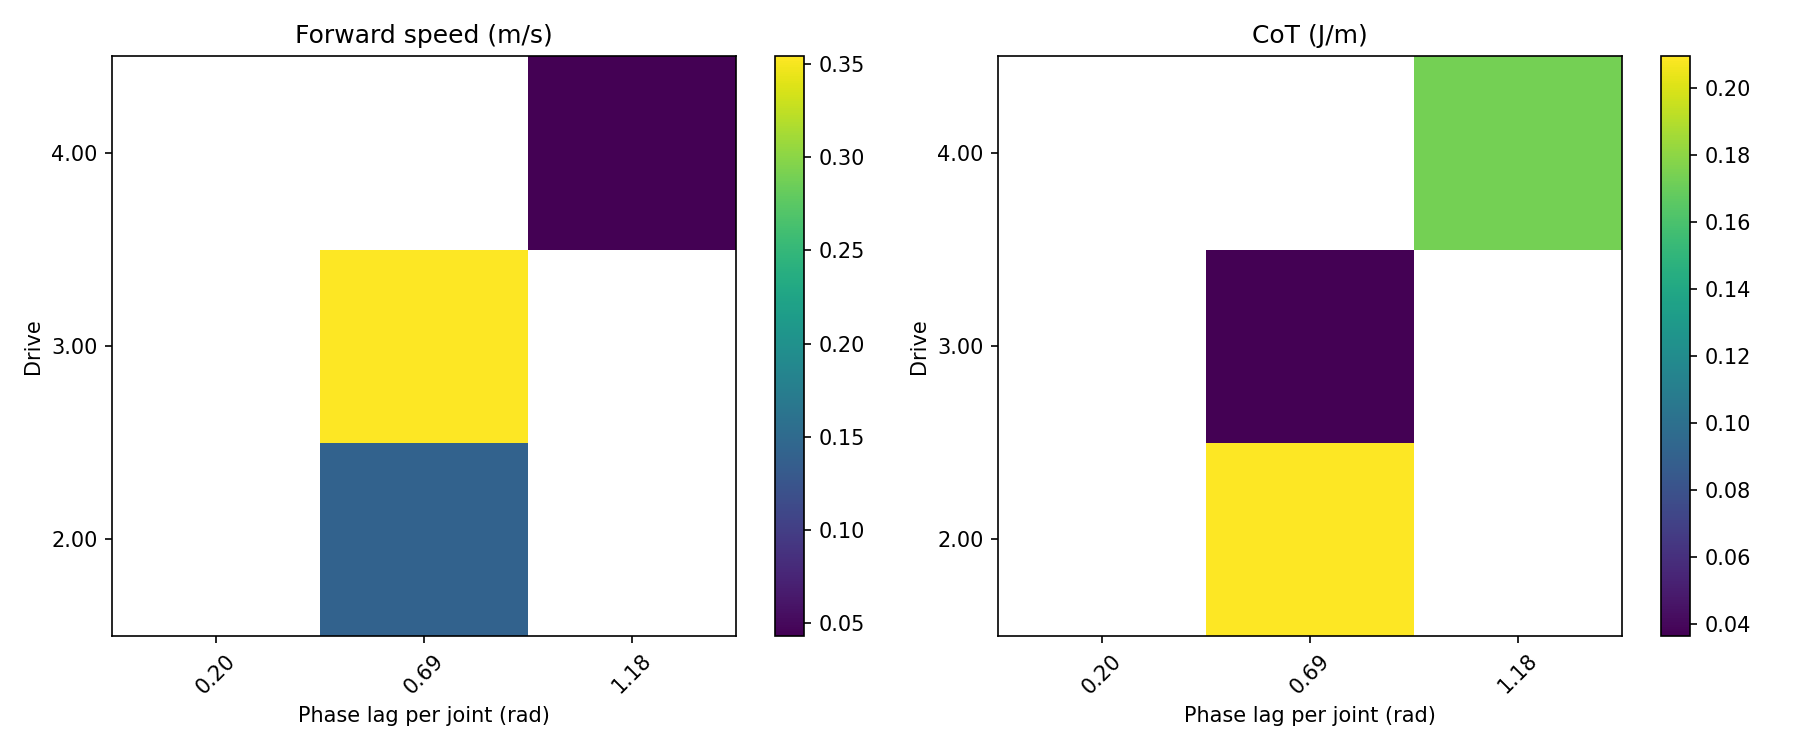
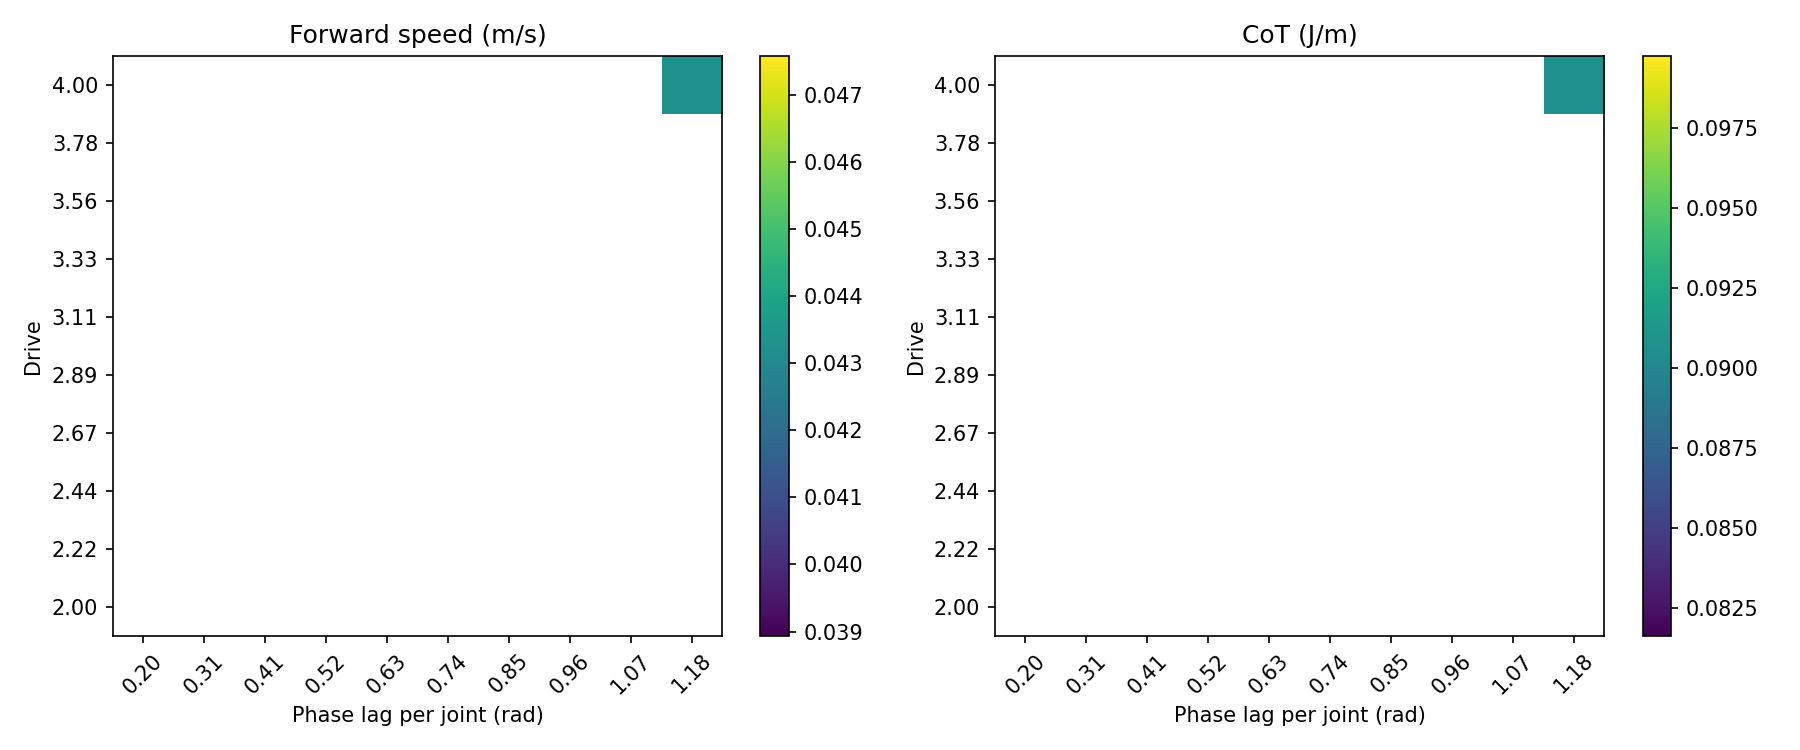
modifs

diff --git a/Project1/Python/cmc_controllers/plot_utils.py b/Project1/Python/cmc_controllers/plot_utils.py
@@ -28,52 +28,52 @@ def plot_results_EXO1_1(sim_times, freq, sensor_data_joints_positions, sensor_da
 
     fig2, ax2 = plt.subplots(figsize=(6, 6))
     ax2.plot(com_xy[:, 0], com_xy[:, 1], linewidth=1.5)
-    ax2.scatter(com_xy[0, 0], com_xy[0, 1], color='green', zorder=5, label='start')
-    ax2.scatter(com_xy[-1, 0], com_xy[-1, 1], color='red', zorder=5, label='end')
     ax2.set_xlabel('x (m)')
     ax2.set_ylabel('y (m)')
     ax2.set_title('CoM trajectory (2D)')
-    ax2.legend()
     plt.tight_layout()
     plt.savefig(base_path + 'com_trajectory.png')
-
     plt.show()
     print(f'CoM displacement: {np.linalg.norm(com_xy[-1] - com_xy[0]):.4f} m')
 
 def plot_gridsearch_heatmaps(twl_range, amp_range, get_metrics, base_path):
-    """
-    Plots heatmaps of forward speed, IPL, and CoT over a grid of TWL and amplitude values.
-    """
     n_twl = len(twl_range)
     n_amp = len(amp_range)
 
-    grid_speed = np.zeros((n_twl, n_amp))
-    grid_ipl   = np.zeros((n_twl, n_amp))
-    grid_cot   = np.zeros((n_twl, n_amp))
+    # 1. Initialize grids as (Rows=Amplitude, Cols=TWL)
+    grid_speed = np.zeros((n_amp, n_twl))
+    grid_ipl   = np.zeros((n_amp, n_twl))
+    grid_cot   = np.zeros((n_amp, n_twl))
 
     for i, twl in enumerate(twl_range):
         for j, amp in enumerate(amp_range):
             val1, val2, val3 = get_metrics(twl, amp)
-            grid_speed[i, j] = val1
-            grid_ipl[i, j]   = val3
-            grid_cot[i, j]   = val2
+            # 2. Map j (amplitude) to the first dimension (Y-axis)
+            # and i (twl) to the second dimension (X-axis)
+            grid_speed[j, i] = val1
+            grid_ipl[j, i]   = val3
+            grid_cot[j, i]   = val2
 
-    fig, axes = plt.subplots(1, 3, figsize=(15, 4))
-
+    fig, axes = plt.subplots(1, 3, figsize=(15, 5))
     grids  = [grid_speed, grid_ipl, grid_cot]
     titles = ['Forward speed (m/s)', 'IPL (rad)', 'CoT (J/m)']
 
     for ax, grid, title in zip(axes, grids, titles):
+        # origin='lower' ensures the lowest amplitude value is at the bottom
         im = ax.imshow(grid, aspect='auto', origin='lower', cmap='viridis')
         plt.colorbar(im, ax=ax)
-        ax.set_xticks(range(n_amp))
-        ax.set_xticklabels([f'{a:.2f}' for a in amp_range], rotation=45)
-        ax.set_yticks(range(n_twl))
-        ax.set_yticklabels([f'{t:.2f}' for t in twl_range])
-        ax.set_xlabel('Amplitude')
-        ax.set_ylabel('TWL')
+        
+        # 3. Correct the Ticks and Labels
+        ax.set_yticks(range(n_amp))
+        ax.set_yticklabels([f'{a:.2f}' for a in amp_range])
+        
+        ax.set_xticks(range(n_twl))
+        ax.set_xticklabels([f'{t:.2f}' for t in twl_range], rotation=45)
+        
+        ax.set_ylabel('Amplitude') # Y is now Amplitude
+        ax.set_xlabel('TWL')       # X is now TWL
         ax.set_title(title)
-
+    
     plt.tight_layout()
     plt.savefig(base_path + 'gridsearch_heatmaps.png', dpi=150)
     plt.show()
@@ -156,6 +156,65 @@ def plot_diff_drive_heatmaps(drive_vals, get_metrics, base_path):
     plt.savefig(base_path + 'diff_drive_heatmaps.png', dpi=150)
     plt.show()
 # =======
+def plot_results_EXO2_3(f_animal, a_animal, ipl_animal, f_robot, a_robot, ipl_robot, base_path):
+    """
+    Plots per-joint bar comparisons for Frequency, Amplitude, and Phase Lag.
+    """
+    n_joints = len(a_animal)
+    joints_labels = [f"J{i}" for i in range(n_joints)]
+    couples_labels = [f"J{i}-{i+1}" for i in range(n_joints - 1)]
+
+    # --- Configuration des couleurs (Viridis) ---
+    cmap = plt.get_cmap('viridis')
+    color_animal = cmap(0.3)  # Greenish
+    color_robot  = cmap(0.7)  # Purplish
+    
+    fig, axes = plt.subplots(1, 3, figsize=(18, 5))
+    width = 0.35
+    x_joints = np.arange(n_joints)
+    x_couples = np.arange(n_joints - 1)
+
+    # --- 1. Frequency Comparison (Per Joint) ---
+    axes[0].bar(x_joints - width/2, f_animal, width, label='Animal', 
+                color=color_animal, edgecolor='white', linewidth=0.5)
+    axes[0].bar(x_joints + width/2, f_robot, width, label='Controller', 
+                color=color_robot, edgecolor='white', linewidth=0.5)
+    
+    axes[0].set_ylabel('Frequency (Hz)')
+    axes[0].set_title('Frequency per Joint')
+    axes[0].set_xticks(x_joints)
+    axes[0].set_xticklabels(joints_labels)
+    axes[0].legend()
+    axes[0].grid(axis='y', linestyle=':', alpha=0.6)
+
+    # --- 2. Amplitude Comparison (Per Joint) ---
+    axes[1].bar(x_joints - width/2, a_animal, width, label='Animal', 
+                color=color_animal, edgecolor='white', linewidth=0.5)
+    axes[1].bar(x_joints + width/2, a_robot, width, label='Controller', 
+                color=color_robot, edgecolor='white', linewidth=0.5)
+    
+    axes[1].set_ylabel('Amplitude (rad)')
+    axes[1].set_title('Amplitude per Joint')
+    axes[1].set_xticks(x_joints)
+    axes[1].set_xticklabels(joints_labels)
+    axes[1].grid(axis='y', linestyle=':', alpha=0.6)
+
+    # --- 3. Phase Lag Comparison (Per Couple) ---
+    axes[2].bar(x_couples - width/2, ipl_animal, width, label='Animal', 
+                color=color_animal, edgecolor='white', linewidth=0.5)
+    axes[2].bar(x_couples + width/2, ipl_robot, width, label='Controller', 
+                color=color_robot, edgecolor='white', linewidth=0.5)
+    
+    axes[2].set_ylabel('Phase Lag (rad)')
+    axes[2].set_title('Inter-joint Phase Lags')
+    axes[2].set_xticks(x_couples)
+    axes[2].set_xticklabels(couples_labels)
+    axes[2].grid(axis='y', linestyle=':', alpha=0.6)
+
+    plt.tight_layout()
+    plt.savefig(base_path + 'animal_controller_comparison.png', dpi=150)
+    plt.show()
+
 def plot_kinematics_comparison(animal_times, animal_joints, robot_times, robot_joints, base_path):
     """
     Compare animal and robot joint kinematics over one normalized cycle.
@@ -323,10 +382,28 @@ def plot_results_EXO2_1(
     # ─────────────────────────────────────────────
     # FIG 3: Joint angles (simulation)
     # ─────────────────────────────────────────────
+    # fig, ax = plt.subplots(figsize=(10, 4))
+
+    # for j in range(8):
+    #     ax.plot(t_sim, sensor_data_joints_positions[sim_mask, j], label=f'joint {j}', alpha=0.7)
+
+    # ax.set_ylabel('Joint angle [rad]')
+    # ax.set_xlabel('Time [s]')
+    # ax.set_title('Joint Angles (Simulation)')
+    # ax.legend(loc='upper right', fontsize=7, ncol=2)
+
+    # plt.tight_layout()
+    # plt.savefig(base_path + 'joint_angles.png', dpi=150)
+
     fig, ax = plt.subplots(figsize=(10, 4))
 
     for j in range(8):
-        ax.plot(t_sim, sensor_data_joints_positions[sim_mask, j], label=f'joint {j}', alpha=0.7)
+        # 1. Generate the color directly from the string 'YlOrRd'
+        color = plt.get_cmap('viridis')(j / 7) 
+        
+        # 2. Add the 0.2 offset and the color
+        ax.plot(t_sim, sensor_data_joints_positions[sim_mask, j] + (j * 0.2), 
+                label=f'joint {j}', color=color, alpha=0.9)
 
     ax.set_ylabel('Joint angle [rad]')
     ax.set_xlabel('Time [s]')
@@ -348,13 +425,10 @@ def plot_results_EXO2_1(
     fig, ax = plt.subplots(figsize=(6, 6))
 
     ax.plot(com_xy[:, 0], com_xy[:, 1], linewidth=1.5)
-    ax.scatter(com_xy[0, 0], com_xy[0, 1], color='green', label='start')
-    ax.scatter(com_xy[-1, 0], com_xy[-1, 1], color='red', label='end')
 
     ax.set_xlabel('x (m)')
     ax.set_ylabel('y (m)')
     ax.set_title('CoM Trajectory (2D)')
-    ax.legend()
 
     plt.tight_layout()
     plt.savefig(base_path + 'com_trajectory.png', dpi=150)

diff --git a/Project1/Python/exercise2_3.py b/Project1/Python/exercise2_3.py
@@ -4,7 +4,7 @@ import os
 import h5py
 import numpy as np
 import matplotlib.pyplot as plt
-
+from cmc_controllers.plot_utils import plot_results_EXO2_3
 from farms_core import pylog
 from cmc_controllers.metrics import (
     compute_mechanical_frequency_amplitude_fft,
@@ -33,9 +33,10 @@ def get_animal_data(path):
     joint_angles = np.deg2rad(data[:, 1:9])
 
     freqs, amplitudes = compute_mechanical_frequency_amplitude_fft(times, joint_angles)
-    f_animal   = np.mean(freqs)
-    amp_animal = np.mean(amplitudes)
-
+    # f_animal   = np.mean(freqs)
+    # amp_animal = np.mean(amplitudes)
+    f_animal   = freqs
+    amp_animal = amplitudes
     inds_couples = [[i, i + 1] for i in range(N_JOINT - 1)]
     _, ipl_animal = compute_neural_phase_lags(
         times=times,
@@ -199,34 +200,25 @@ def exercise2_3():
     """
     pylog.set_level('critical')
 
-    # ── Animal data ──────────────────────────────────────────────────────────
     f_animal, a_animal, ipl_animal, animal_times, animal_joints = \
         get_animal_data(ANIMAL_DATA_PATH)
 
-    # ── Robot baseline (exercise 2.1) ────────────────────────────────────────
     sim_result = 'logs/exercise2_1/simulation.hdf5'
     with h5py.File(sim_result, "r") as f:
         sim_times   = f['times'][:]
         joints_data = f['FARMSLISTanimats']['0']['sensors']['joints']['array'][:]
     joint_pos_baseline = joints_data[:, :N_JOINT, 0]
 
-    f_robot_arr, a_robot_arr = compute_mechanical_frequency_amplitude_fft(
+    f_robot, a_robot = compute_mechanical_frequency_amplitude_fft(
         sim_times, joint_pos_baseline)
-    f_robot  = float(np.mean(f_robot_arr))
-    a_robot  = float(np.mean(a_robot_arr))
     _, ipl_robot = compute_neural_phase_lags(
-        sim_times, joint_pos_baseline, f_robot_arr,
+        sim_times, joint_pos_baseline, f_robot,
         [[i, i + 1] for i in range(N_JOINT - 1)])
 
-    print("\n" + "=" * 57)
-    print(f"{'METRIC COMPARISON':^57}")
-    print("=" * 57)
-    print(f"{'Metric':<25} | {'Animal (Scaled)':<14} | {'CPG Baseline':<14}")
-    print("-" * 57)
-    print(f"{'Frequency (Hz)':<25} | {f_animal:<14.3f} | {f_robot:<14.3f}")
-    print(f"{'Joint Amplitude (rad)':<25} | {a_animal:<14.3f} | {a_robot:<14.3f}")
-    print(f"{'Phase Lag / IPL (rad)':<25} | {ipl_animal:<14.3f} | {ipl_robot:<14.3f}")
-    print("=" * 57 + "\n")
+    plot_results_EXO2_3(
+        f_animal, a_animal, ipl_animal, 
+        f_robot, a_robot, ipl_robot, BASE_PATH
+    )
     # TO DO  Optimization
 
 if __name__ == '__main__':
